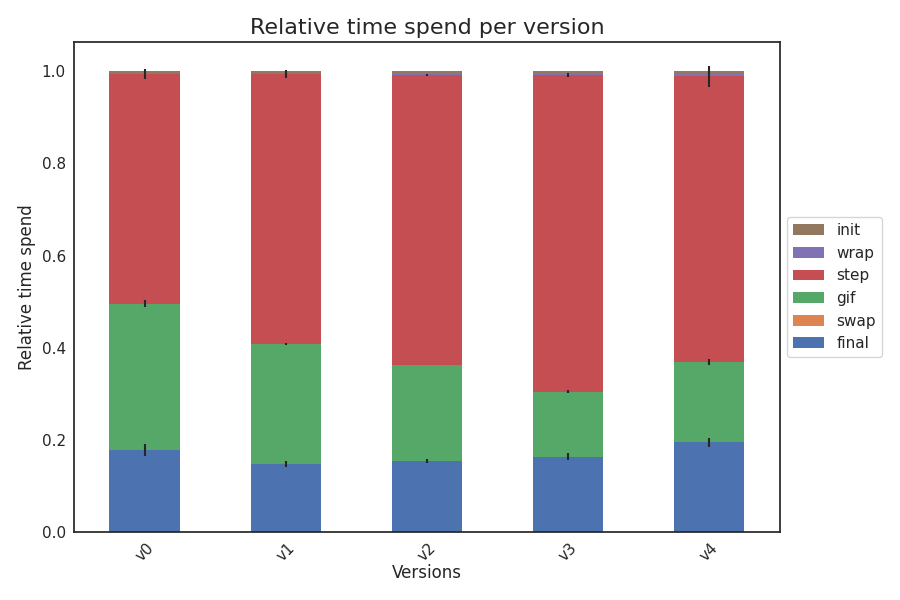
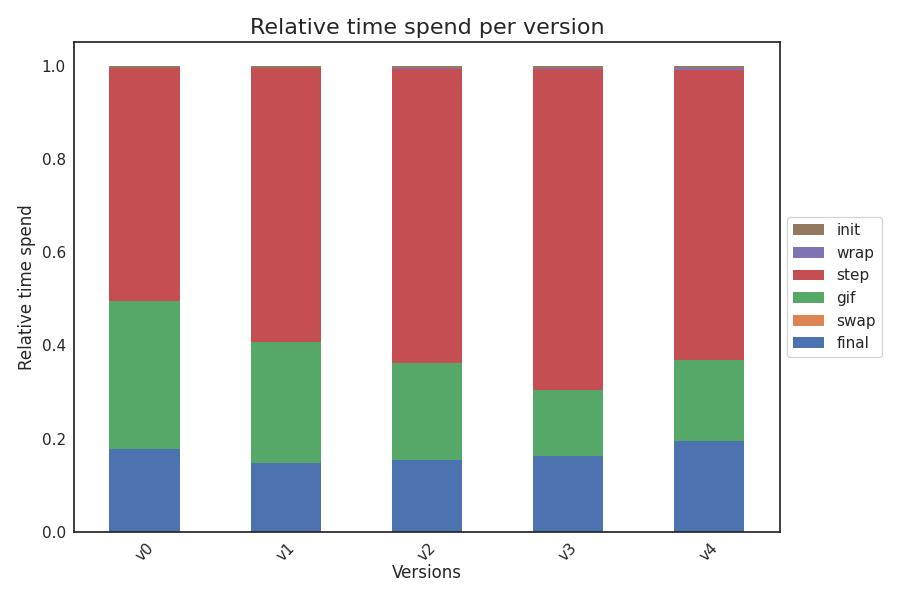
Made figures without error

diff --git a/profiler/generate_barplot.py b/profiler/generate_barplot.py
@@ -58,8 +58,15 @@ def gen_barplot():
     cols = ["throughput", "total", "final",  "swap", "gif", "overlap", "step", "wrap", "init"]
     df_mean = df_mean[cols]
 
-    # Subtract overlap of step.
-    df_mean["step"] = df_mean["step"] - df_mean["overlap"]
+    # Subtract overlap of step for all rows that do not belong to v7.0.
+    # Subtract overlap of gif for the rows of version 7.0.
+    idxs = list(df_mean.index)
+
+    if "v7.0" in idxs:
+        idxs.remove("v7.0")
+        df_mean.loc[["v7.0"]]["step"] -= df_mean.loc[["v7.0"]]["overlap"]
+
+    df_mean.loc[idxs]["step"] -= df_mean.loc[idxs]["overlap"]
 
     # Normalize the mean values to be between 0 and 1.
     df_mean_norm = df_mean.copy()
@@ -78,7 +85,7 @@ def gen_barplot():
     # Plot the dataframe and add error bars.
     sns.set(style="white")
     ax = df_mean_norm[cols[2:]].plot(kind="bar", stacked=True, figsize=(9, 6), rot=0,
-                                     yerr=df_std[["step", "gif", "final"]],
+                                     # yerr=df_std[["step", "gif", "final"]],
                                      linewidth=0)
 
     # Color hatches properly.
